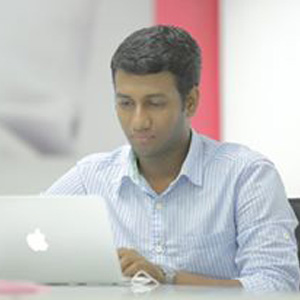
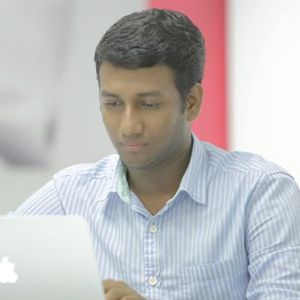
fb profile links

diff --git a/index.html b/index.html
@@ -64,8 +64,6 @@ License URL: http://creativecommons.org/licenses/by/3.0/
 							   <li class="active"><a href="#about" class="scroll">About</a></li> 
 							   <li><a href="#services" class="scroll">Services</a></li> 
 							   <li><a href="#features" class="scroll">Features</a></li>
-							   <li><a href="#work" class="scroll">Work</a></li>
-							   <li><a href="#skills" class="scroll">Skills</a></li>
 							   <li><a href="#team" class="scroll">Team</a></li>
 							   <li><a href="#contact" class="scroll">Contact</a></li>
 							</ul>
@@ -361,7 +359,7 @@ License URL: http://creativecommons.org/licenses/by/3.0/
    	   			<div class="team_grids text-center">
    	   				<div class="col-md-3 team_grid">
    	   				  <div class="view view-fifth"><a href="#">
-	                    <img src="images/Achu.jpg" class="img-responsive" alt=""/>
+	                    <img src="images/achugr.jpg" class="img-responsive" alt=""/>
 	                    <div class="mask">
 	                       <div class="content">
 	                         <a class="popup-with-zoom-anim" href="#small-dialog3"> <div class="info"><img src="images/plus.png" alt=""/></div></a>
@@ -378,59 +376,12 @@ License URL: http://creativecommons.org/licenses/by/3.0/
 	                     <h4><a href="#"> Achu GR </a><br><span class="ceo">CEO</span></h4>
 	                     <p>velit esse molestie consequat, vel illum dolore eu feugiat nulla facilisis at vero eros et accumsan et iusto odio dignissim qui blandit praesent luptatum</p>
 	                     <ul class="social">
-							<li><a href=""> <i class="fb"> </i> </a></li>
+							<li><a href="https://www.facebook.com/Achu247doc"> <i class="fb"> </i> </a></li>
 							<li><a href=""><i class="tw"> </i> </a></li>
 							<li><a href=""><i class="google"> </i> </a></li>
 						 </ul>
    	   				   </div>
-   	   				   <div class="col-md-3 team_grid">
-   	   				  <div class="view view-fifth"><a href="#">
-	                    <img src="images/Biji_Kurian.jpg" class="img-responsive" alt=""/>
-	                    <div class="mask">
-	                       <div class="content">
-	                         <a class="popup-with-zoom-anim" href="#small-dialog3"> <div class="info"><img src="images/plus.png" alt=""/></div></a>
-			               </div> 
-	                     </div>
-	                         <div id="small-dialog3" class="mfp-hide">
-								   <div class="pop_up2">
-								   	   <h3>Lorem Ipsum</h3>
-									   <h4>Senior UI Designer</h4>
-									   <p>Lorem ipsum dolor sit amet, consectetuer adipiscing elit, sed diam nonummy nibh euismod tincidunt ut laoreet dolore magna aliquam erat volutpat. Ut wisi enim ad minim veniam, quis nostrud exerci tation ullamcorper suscipit lobortis nisl ut aliquip ex ea commodo consequat. Duis autem vel eum iriure dolor in hendrerit in vulputate velit esse molestie consequat, vel illum dolore eu feugiat nulla facilisis.</p>
-								   </div>
-							 </div>
-	                     </a></div>
-	                     <h4><a href="#">Biji Kurian </a><br><span class="ceo">CMO</span></h4>
-	                     <p>velit esse molestie consequat, vel illum dolore eu feugiat nulla facilisis at vero eros et accumsan et iusto odio dignissim qui blandit praesent luptatum</p>
-	                     <ul class="social">
-							<li><a href=""> <i class="fb"> </i> </a></li>
-							<li><a href=""><i class="tw"> </i> </a></li>
-							<li><a href=""><i class="google"> </i> </a></li>
-						 </ul>
-   	   				   </div>
-   	   				  <div class="col-md-3 team_grid">
-   	   				  <div class="view view-fifth"><a href="#">
-	                    <img src="images/jk.jpg" class="img-responsive" alt=""/>
-	                    <div class="mask">
-	                       <div class="content">
-	                         <a class="popup-with-zoom-anim" href="#small-dialog3"> <div class="info"><img src="images/plus.png" alt=""/></div></a>
-			               </div> 
-	                     </div>
-	                         <div id="small-dialog3" class="mfp-hide">
-								   <div class="pop_up2">
-								   	   <h3>Lorem Ipsum</h3>
-									   <h4>Senior UI Designer</h4>
-									   <p>Lorem ipsum dolor sit amet, consectetuer adipiscing elit, sed diam nonummy nibh euismod tincidunt ut laoreet dolore magna aliquam erat volutpat. Ut wisi enim ad minim veniam, quis nostrud exerci tation ullamcorper suscipit lobortis nisl ut aliquip ex ea commodo consequat. Duis autem vel eum iriure dolor in hendrerit in vulputate velit esse molestie consequat, vel illum dolore eu feugiat nulla facilisis.</p>
-								   </div>
-							 </div>
-	                     </a></div>
-	                     <h4><a href="#"> Jay Krishnan </a><br><span class="ceo">HR & Operations</span></h4>
-	                     <p>velit esse molestie consequat, vel illum dolore eu feugiat nulla facilisis at vero eros et accumsan et iusto odio dignissim qui blandit praesent luptatum</p>
-	                     <ul class="social">
-							<li><a href=""> <i class="fb"> </i> </a></li>
-							<li><a href=""><i class="tw"> </i> </a></li>
-							<li><a href=""><i class="google"> </i> </a></li>
-						 </ul>
-   	   				   </div>
+					   
 					   <div class="col-md-3 team_grid">
    	   				  <div class="view view-fifth"><a href="#">
 	                    <img src="images/Shyam.jpg" class="img-responsive" alt=""/>
@@ -450,25 +401,89 @@ License URL: http://creativecommons.org/licenses/by/3.0/
 	                     <h4><a href="#"> Shyam Achuthan </a><br><span class="ceo">CTO</span></h4>
 	                     <p>velit esse molestie consequat, vel illum dolore eu feugiat nulla facilisis at vero eros et accumsan et iusto odio dignissim qui blandit praesent luptatum</p>
 	                     <ul class="social">
-							<li><a href=""> <i class="fb"> </i> </a></li>
+							<li><a href="https://www.facebook.com/shyam.achuthan"> <i class="fb"> </i> </a></li>
 							<li><a href=""><i class="tw"> </i> </a></li>
 							<li><a href=""><i class="google"> </i> </a></li>
 						 </ul>
    	   				   </div>
-   	   				
+
+   	   				 <div class="col-md-3 team_grid">
+   	   				  <div class="view view-fifth"><a href="#">
+	                    <img src="images/jk.jpg" class="img-responsive" alt=""/>
+	                    <div class="mask">
+	                       <div class="content">
+	                         <a class="popup-with-zoom-anim" href="#small-dialog3"> <div class="info"><img src="images/plus.png" alt=""/></div></a>
+			               </div> 
+	                     </div>
+	                         <div id="small-dialog3" class="mfp-hide">
+								   <div class="pop_up2">
+								   	   <h3>Lorem Ipsum</h3>
+									   <h4>Senior UI Designer</h4>
+									   <p>Lorem ipsum dolor sit amet, consectetuer adipiscing elit, sed diam nonummy nibh euismod tincidunt ut laoreet dolore magna aliquam erat volutpat. Ut wisi enim ad minim veniam, quis nostrud exerci tation ullamcorper suscipit lobortis nisl ut aliquip ex ea commodo consequat. Duis autem vel eum iriure dolor in hendrerit in vulputate velit esse molestie consequat, vel illum dolore eu feugiat nulla facilisis.</p>
+								   </div>
+							 </div>
+	                     </a></div>
+	                     <h4><a href="#"> Jay Krishnan </a><br><span class="ceo">HR & Operations</span></h4>
+	                     <p>velit esse molestie consequat, vel illum dolore eu feugiat nulla facilisis at vero eros et accumsan et iusto odio dignissim qui blandit praesent luptatum</p>
+	                     <ul class="social">
+							<li><a href="https://www.facebook.com/jk.gladiator"> <i class="fb"> </i> </a></li>
+							<li><a href=""><i class="tw"> </i> </a></li>
+							<li><a href=""><i class="google"> </i> </a></li>
+						 </ul>
+   	   				   </div>
+					   <div class="col-md-3 team_grid">
+   	   				  <div class="view view-fifth"><a href="#">
+	                    <img src="images/Biji_Kurian.jpg" class="img-responsive" alt=""/>
+	                    <div class="mask">
+	                       <div class="content">
+	                         <a class="popup-with-zoom-anim" href="#small-dialog3"> <div class="info"><img src="images/plus.png" alt=""/></div></a>
+			               </div> 
+	                     </div>
+	                         <div id="small-dialog3" class="mfp-hide">
+								   <div class="pop_up2">
+								   	   <h3>Lorem Ipsum</h3>
+									   <h4>Senior UI Designer</h4>
+									   <p>Lorem ipsum dolor sit amet, consectetuer adipiscing elit, sed diam nonummy nibh euismod tincidunt ut laoreet dolore magna aliquam erat volutpat. Ut wisi enim ad minim veniam, quis nostrud exerci tation ullamcorper suscipit lobortis nisl ut aliquip ex ea commodo consequat. Duis autem vel eum iriure dolor in hendrerit in vulputate velit esse molestie consequat, vel illum dolore eu feugiat nulla facilisis.</p>
+								   </div>
+							 </div>
+	                     </a></div>
+	                     <h4><a href="#">Biji Kurian </a><br><span class="ceo">CMO</span></h4>
+	                     <p>velit esse molestie consequat, vel illum dolore eu feugiat nulla facilisis at vero eros et accumsan et iusto odio dignissim qui blandit praesent luptatum</p>
+	                     <ul class="social">
+							<li><a href="https://www.facebook.com/biji.kurian"> <i class="fb"> </i> </a></li>
+							<li><a href=""><i class="tw"> </i> </a></li>
+							<li><a href=""><i class="google"> </i> </a></li>
+						 </ul>
+   	   				   </div>   	   				
    	   				   <div class="clearfix"></div>
    	   			</div>
    	   		  </div>
    	   		</div>
    	   		<div class="call">
    	   			<div class="container">
+					<h2 style="color:#05ceaa">GET IN TOUCH</h2>
    	   				<h3 class="call_text">If you have an Enquiry  OR   If you need a Quote   OR  If you want to just say Hi!.&nbsp;&nbsp;&nbsp;&nbsp;<img src="images/more.png" alt=""/></h3>
-   	   			</div>
+					
+				</div>
    	   		</div>
    	   	  </div>
    	   	  <div class="footer" id="contact">
+		  
    	   		<div class="container">
-				
+				<div class="about">
+				<h4>Contact us</h4>
+					<p>
+					247DOC Healthcare Solutions ,<br>
+					Startup Village, <br>
+					Kinfra Hi-Tech Park,<br>
+					Kalamassery , <br>
+					Kochi 683503.<br>
+					Phone: +91 8138915700<br>
+					Email: achu@247doc.in
+					</p>
+					</div>
+					
+				<div class="clearfix"> </div>
    	   			<!-- <form method="post" action="contact-post.html">
 					<div class="contact-to">
                      	<input type="text" class="text" value="Name..." onfocus="this.value = '';" onblur="if (this.value == '') {this.value = 'Name...';}">
@@ -488,7 +503,7 @@ License URL: http://creativecommons.org/licenses/by/3.0/
 	                  <a href="#"><img src="images/247Logo.png" alt=""/></a>
 	                   <ul class="f_social">
 							<li><a href=""> <i class="tw1"> </i> </a></li>
-							<li><a href=""><i class="fb1"> </i> </a></li>
+							<li><a href="https://www.facebook.com/247DocHealthcareSolutions"><i class="fb1"> </i> </a></li>
 							<li><a href=""><i class="g1"> </i> </a></li>
 							<li><a href=""><i class="pin"> </i> </a></li>
 							<li><a href=""><i class="linked"> </i> </a></li>
